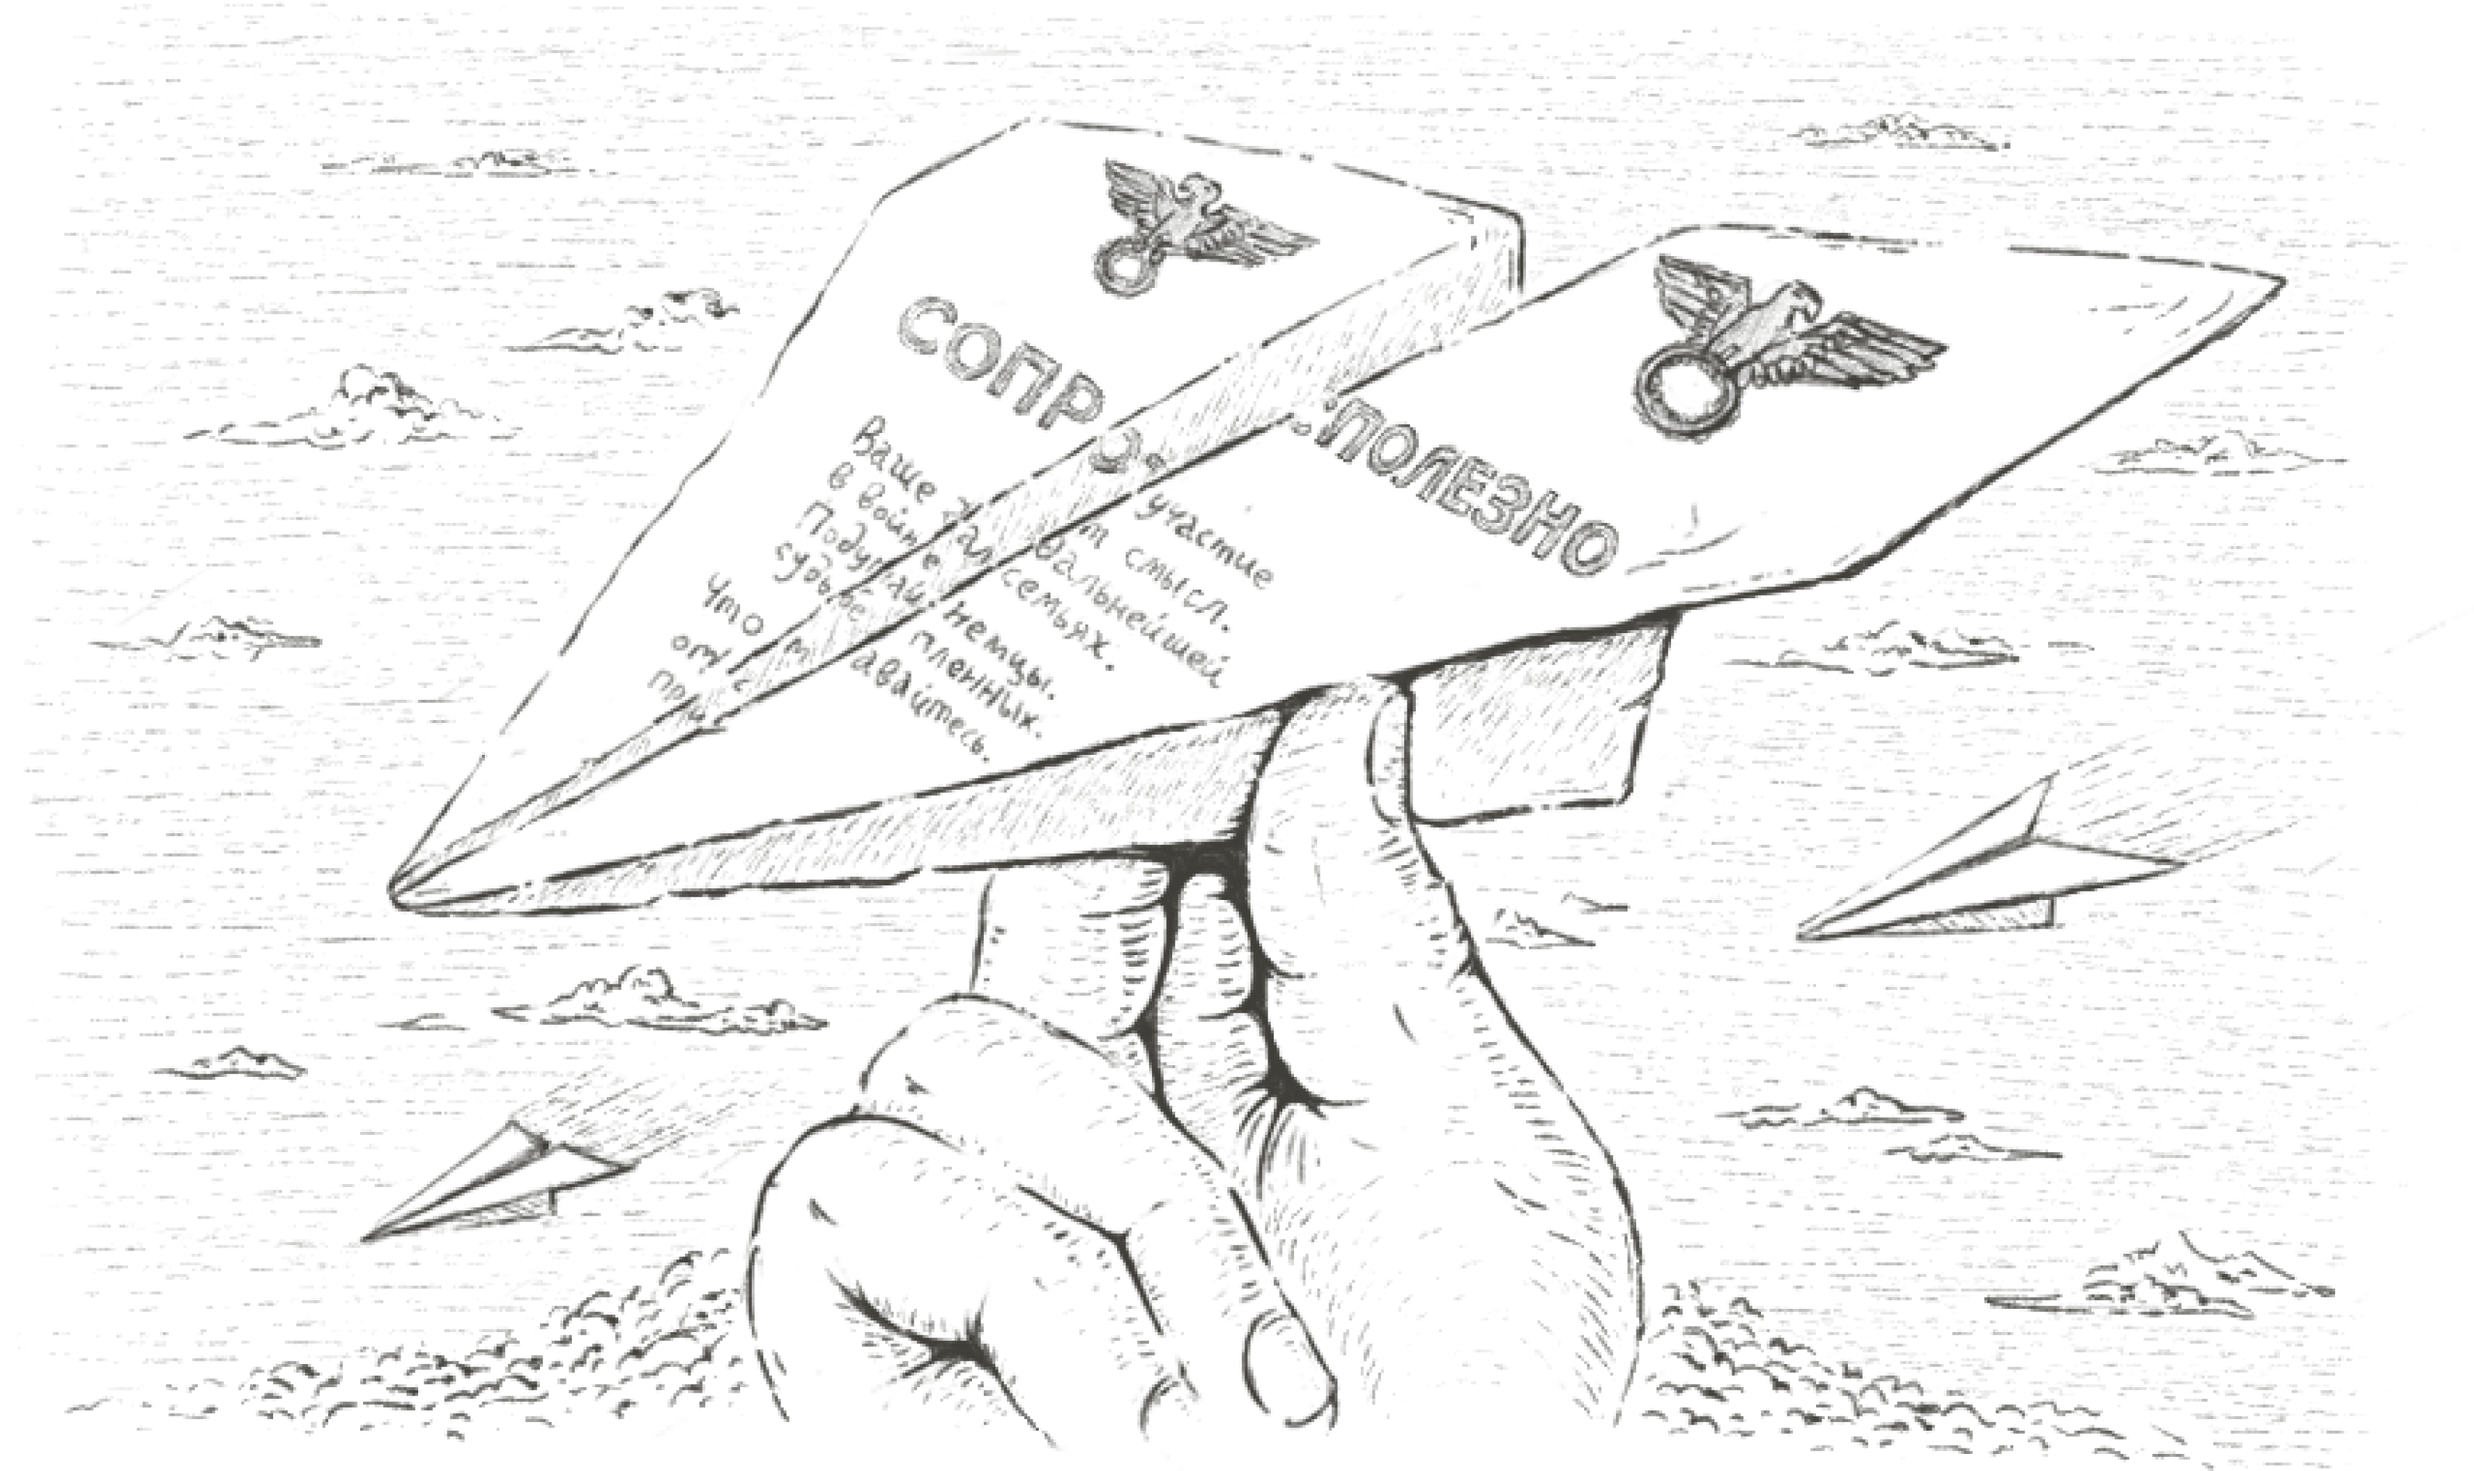
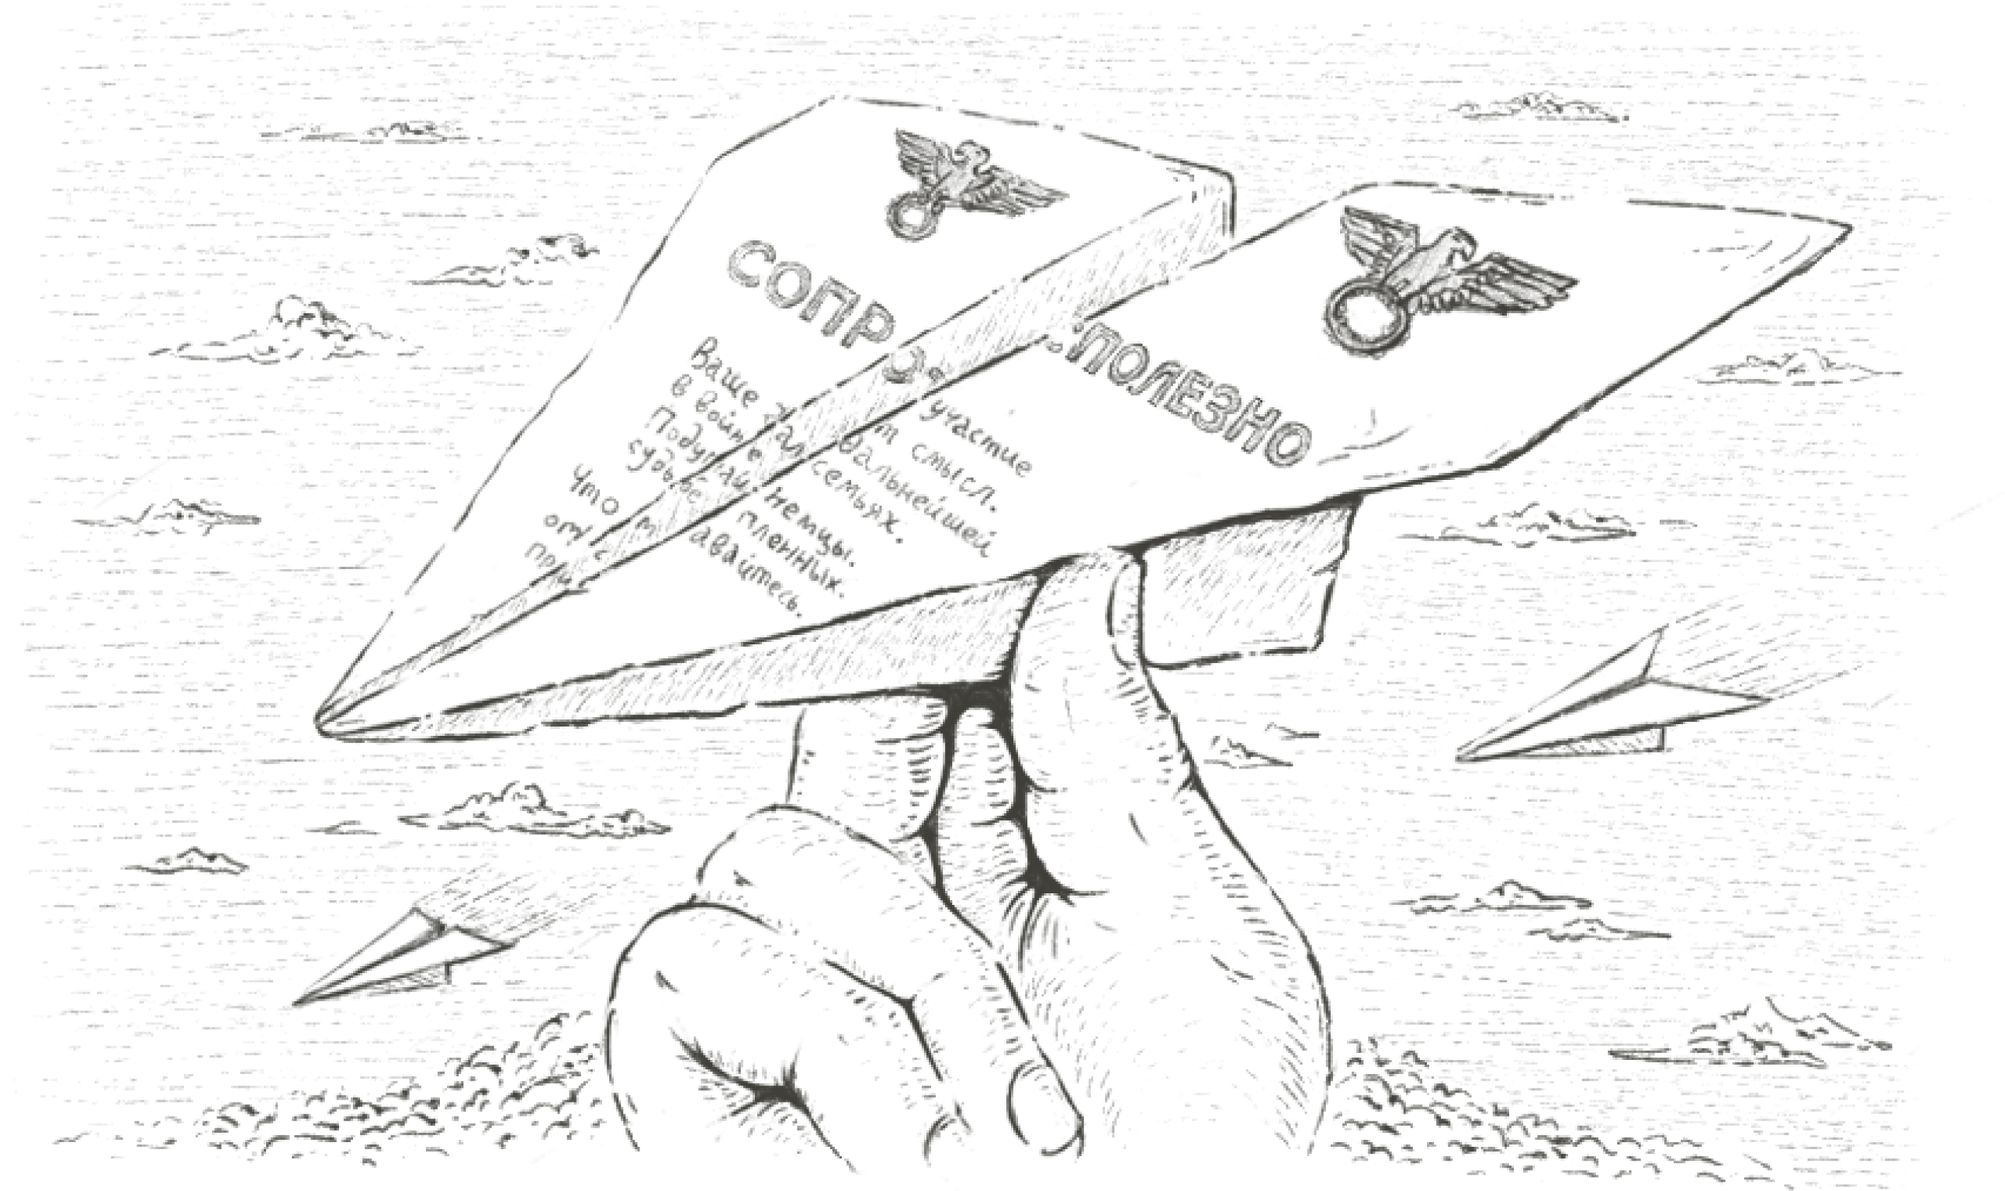
Changes Images

diff --git a/index.html b/index.html
@@ -34,7 +34,7 @@
           <div class="razdelitel-hero-img"></div>
         </div>
         <div class="hero-container">
-          <img class="hero-img" src="./assets/header.webp" alt="hero image" />
+          <img class="hero-img" src="./assets/header.png" alt="hero image" />
         </div>
       </section>
       <section class="german-section stories-section">
@@ -68,7 +68,7 @@
         <section class="wolves-subsection subsection">
           <img
             class="wolf-img"
-            src="./assets/wolves-illustration.webp"
+            src="./assets/wolves-illustration.png"
             alt="Wolves Ilustration"
           />
           <div class="wolf-text">
@@ -92,7 +92,7 @@
         <section class="peats-subsection subsection">
           <img
             class="peat-img"
-            src="./assets/peats-illustration.webp"
+            src="./assets/peats-illustration.png"
             alt="Peats Ilustration"
           />
           <div class="peat-text">
@@ -116,7 +116,7 @@
         <section class="groom-subsection subsection">
           <img
             class="groom-img"
-            src="./assets/groom-illustration.webp"
+            src="./assets/groom-illustration.png"
             alt="Groom Ilustration"
           />
           <div class="groom-text">
@@ -140,7 +140,7 @@
         <section class="kremlin-subsection subsection">
           <img
             class="kremlin-img"
-            src="./assets/kremlin-illustration.webp"
+            src="./assets/kremlin-illustration.png"
             alt="Kremlin Ilustration"
           />
           <div class="kremlin-text">
@@ -163,7 +163,7 @@
         <section class="vegetable-base-subsection subsection">
           <img
             class="vegbase-img"
-            src="./assets/vegetables-illustration.webp"
+            src="./assets/vegetables-illustration.png"
             alt="Vegetable Ilustration"
           />
           <div class="vegbase-text">
@@ -186,7 +186,7 @@
         <section class="brilliant-green-subsection subsection">
           <img
             class="brillgn-img"
-            src="./assets/zelenka-art.webp"
+            src="./assets/zelenka-art.png"
             alt="Brilliant Green Ilustration"
           />
           <div class="brillgn-text">

diff --git a/index.css b/index.css
@@ -119,7 +119,7 @@ main {
 .razdelitel-hero-img {
   width: 100%;
   height: 100%;
-  background-image: url('./assets/Klaksa1.webp');
+  background-image: url('./assets/Klaksa1.png');
   background-position: center;
   background-repeat: no-repeat;
   background-size: 100%;
@@ -303,7 +303,7 @@ p {
 .razdelitel-wolf-img {
   width: 100%;
   height: 100%;
-  background-image: url('./assets/Klaksa2.webp');
+  background-image: url('./assets/Klaksa2.png');
   background-position: center;
   background-repeat: no-repeat;
   background-size: 100%;
@@ -324,7 +324,7 @@ p {
 .razdelitel-groom-img {
   width: 100%;
   height: 100%;
-  background-image: url('./assets/Klaksa3.webp');
+  background-image: url('./assets/Klaksa3.png');
   background-position: center;
   background-repeat: no-repeat;
   background-size: 100%;
@@ -344,7 +344,7 @@ p {
 .razdelitel-brillgn-img {
   width: 100%;
   height: 100%;
-  background-image: url('./assets/Klaksa4.webp');
+  background-image: url('./assets/Klaksa4.png');
   background-position: center;
   background-repeat: no-repeat;
   background-size: 100%;

diff --git a/mobile.css b/mobile.css
@@ -399,7 +399,7 @@
   .razdelitel-brillgn-img {
     width: 100%;
     height: 100%;
-    background-image: url('./assets/razdelitel.webp');
+    background-image: url('./assets/razdelitel.png');
     background-position: center;
     background-repeat: no-repeat;
     background-size: 100%;
